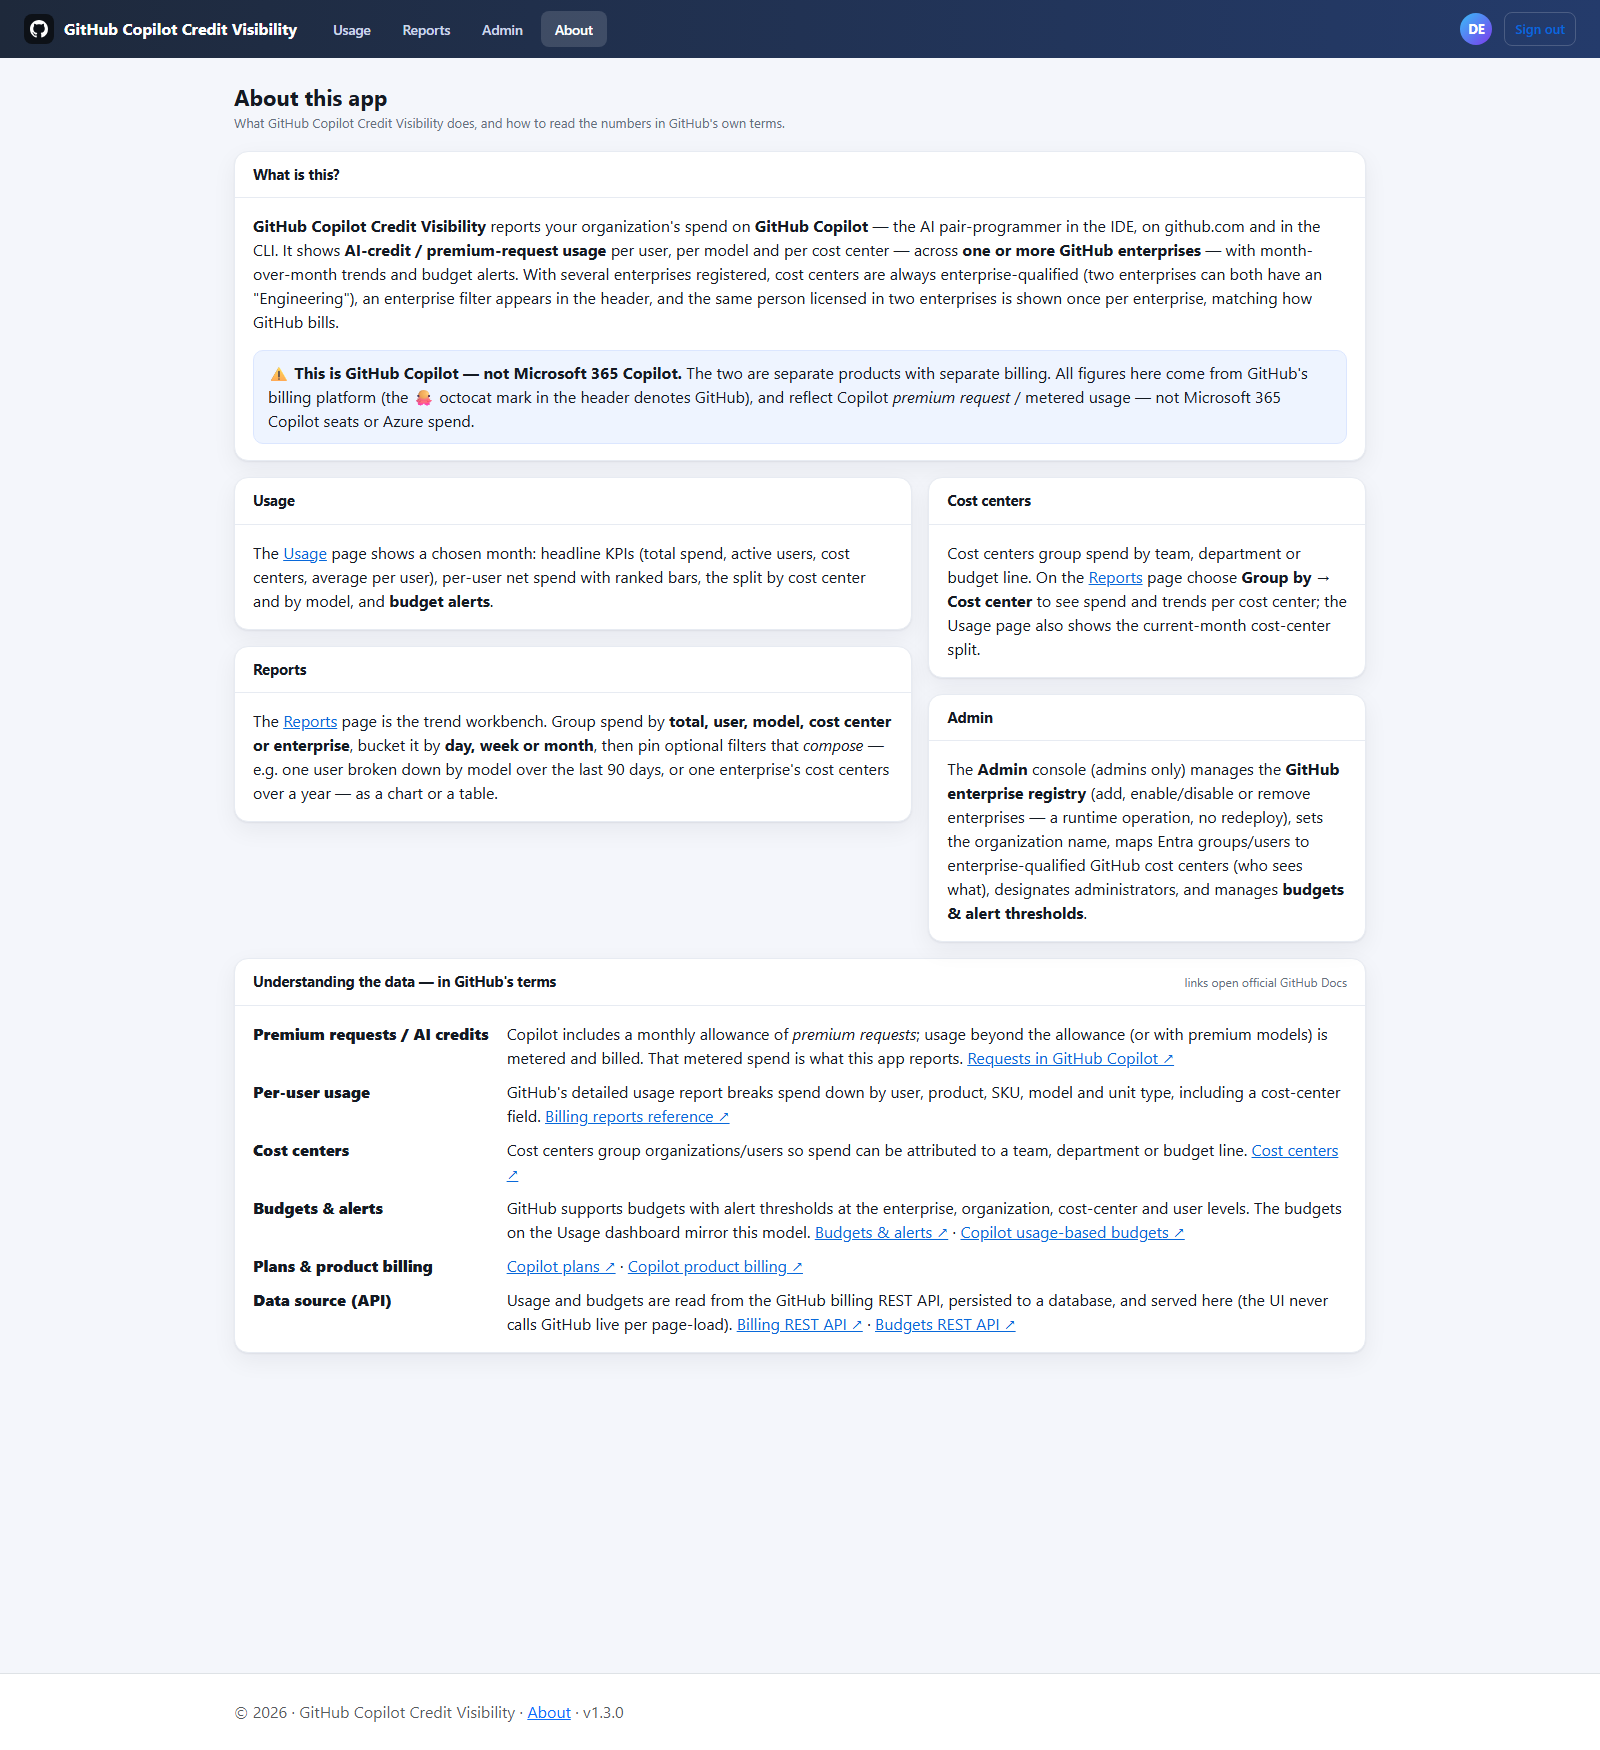
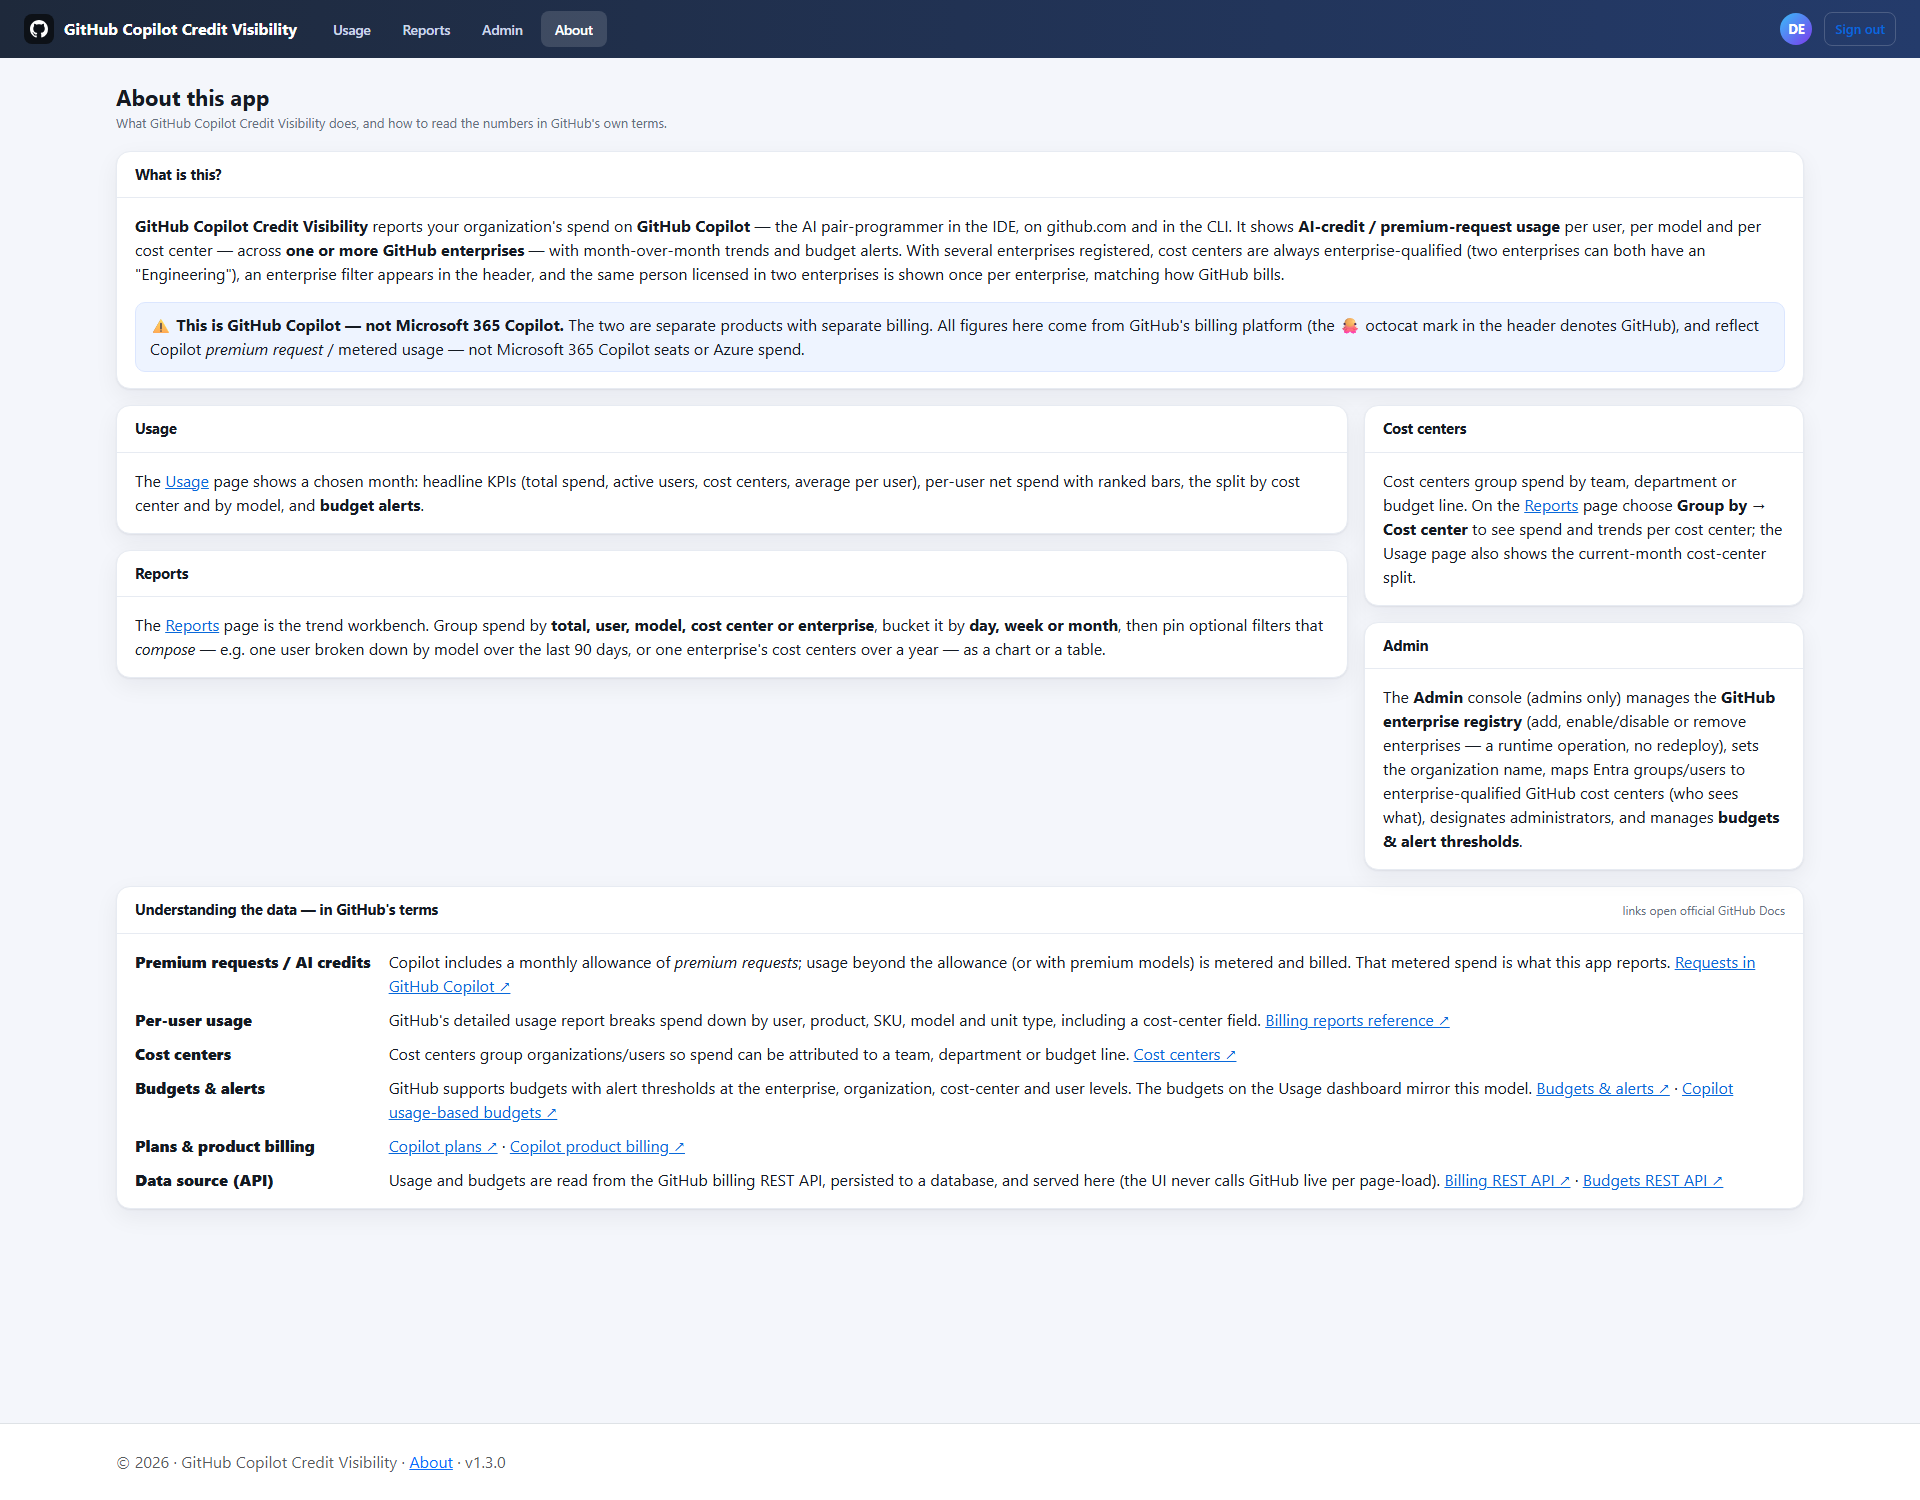
Fluid dashboard layout: use the viewer's screen width
- .gh-wrap max-width 1180px -> 1760px (fluid below the cap, larger
  gutters on big screens): no more narrow centered column with dead
  white space on modern monitors.
- Main/side content grid: the per-user table absorbs the extra width;
  the donut/legend side column caps at 440px so charts don't balloon.
- KPI row uses auto-fit so 4 or 5 cards (ShowGrossUsage) always fill
  one row on wide screens and wrap gracefully when narrow.
- Budgets flow two per row on >=1280px screens so meters stay a
  readable length instead of stretching across the whole viewport.
- All four README screenshots recaptured at 1920px with the new layout.

diff --git a/GhcpCreditVisibility/wwwroot/css/site.css b/GhcpCreditVisibility/wwwroot/css/site.css
@@ -142,8 +142,11 @@ body { background:var(--gh-bg); color:var(--gh-ink); font-family:'Segoe UI',-app
 .gh-signout{color:#cdd7ea;text-decoration:none;font-size:13px;font-weight:500;padding:6px 10px;border-radius:8px;border:1px solid rgba(255,255,255,.18);}
 .gh-signout:hover{background:rgba(255,255,255,.08);color:#fff;}
 
-/* Page shell */
-.gh-wrap{max-width:1180px;margin:0 auto;padding:26px 24px 60px;}
+/* Page shell — fluid: use the viewer's screen width rather than a fixed narrow column.
+   Capped at 1760px so ultra-wide monitors don't produce unreadably long text lines;
+   below the cap the content tracks the window (with slightly larger gutters on big screens). */
+.gh-wrap{max-width:1760px;margin:0 auto;padding:26px 24px 60px;}
+@media(min-width:1400px){.gh-wrap{padding-left:36px;padding-right:36px;}}
 .gh-pagehead{display:flex;flex-wrap:wrap;align-items:flex-end;justify-content:space-between;gap:14px;margin-bottom:18px;}
 .gh-pagehead h1{font-size:22px;margin:0 0 3px;font-weight:700;display:flex;align-items:center;gap:9px;}
 .gh-pagehead h1 .gh-gh{color:#141a22;display:inline-grid;place-items:center;}
@@ -155,8 +158,9 @@ body { background:var(--gh-bg); color:var(--gh-ink); font-family:'Segoe UI',-app
 .gh-mpick .cal{color:var(--gh-brand);}
 .gh-mpick select{border:0;background:transparent;font-weight:600;color:var(--gh-ink);padding:2px 4px;outline:none;cursor:pointer;font-size:13.5px;}
 
-/* KPI cards */
-.gh-kpis{display:grid;grid-template-columns:repeat(4,1fr);gap:16px;margin-bottom:20px;}
+/* KPI cards — auto-fit so 4 OR 5 cards (Dashboard:ShowGrossUsage) always fill one row on
+   wide screens instead of wrapping an orphan, and wrap gracefully as the window narrows. */
+.gh-kpis{display:grid;grid-template-columns:repeat(auto-fit,minmax(230px,1fr));gap:16px;margin-bottom:20px;}
 @media(max-width:900px){.gh-kpis{grid-template-columns:repeat(2,1fr);}}
 .gh-kpi{background:var(--gh-card);border:1px solid var(--gh-line);border-radius:14px;padding:16px 18px;box-shadow:var(--gh-shadow);position:relative;overflow:hidden;}
 .gh-kpi .ic{width:38px;height:38px;border-radius:10px;display:grid;place-items:center;font-size:18px;margin-bottom:10px;}
@@ -167,8 +171,10 @@ body { background:var(--gh-bg); color:var(--gh-ink); font-family:'Segoe UI',-app
 .gh-kpi.b1 .ic{background:#e0edff;color:#2563eb;} .gh-kpi.b2 .ic{background:#efe6ff;color:#7c3aed;}
 .gh-kpi.b3 .ic{background:#d9f5ee;color:#0d9488;} .gh-kpi.b4 .ic{background:#fdeede;color:#d9822b;}
 
-/* Content grid + cards */
-.gh-grid{display:grid;grid-template-columns:1.55fr 1fr;gap:16px;}
+/* Content grid + cards — the MAIN column (per-user table / breakdown) absorbs the extra
+   horizontal space on wide screens; the side column (donut/legend cards) grows only up to a
+   sensible cap so charts don't balloon. */
+.gh-grid{display:grid;grid-template-columns:minmax(0,1fr) minmax(320px,440px);gap:16px;}
 @media(max-width:900px){.gh-grid{grid-template-columns:1fr;}}
 .gh-card{background:var(--gh-card);border:1px solid var(--gh-line);border-radius:14px;box-shadow:var(--gh-shadow);overflow:hidden;margin-bottom:16px;}
 .gh-card .ch{display:flex;align-items:center;justify-content:space-between;gap:12px;padding:14px 18px;border-bottom:1px solid var(--gh-line);flex-wrap:wrap;}
@@ -210,6 +216,13 @@ body { background:var(--gh-bg); color:var(--gh-ink); font-family:'Segoe UI',-app
 .gh-note{color:var(--gh-muted);font-size:12.5px;}
 
 /* Budgets & alerts */
+/* Budgets: single stacked list by default; on wide screens flow two per row so the meters
+   stay a readable length instead of stretching across the whole viewport. */
+.gh-budgets{display:grid;grid-template-columns:1fr;}
+@media(min-width:1280px){
+  .gh-budgets{grid-template-columns:1fr 1fr;column-gap:0;}
+  .gh-budgets .gh-budget:nth-child(odd){border-right:1px solid #f1f4f9;}
+}
 .gh-budget{padding:14px 18px;border-bottom:1px solid #f1f4f9;}
 .gh-budget:last-child{border-bottom:0;}
 .gh-budget .top{display:flex;align-items:center;justify-content:space-between;gap:10px;font-size:13.5px;}
